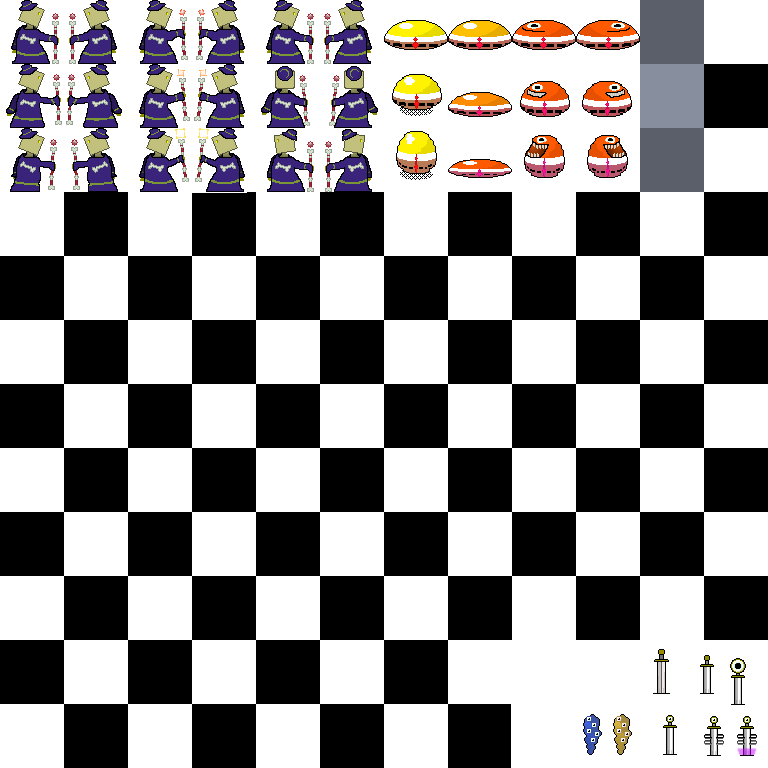
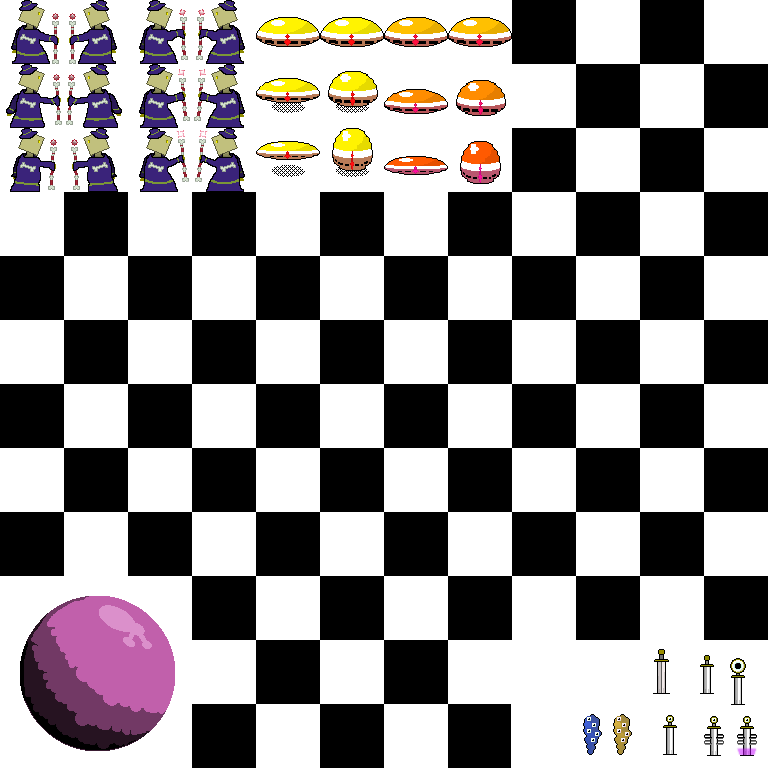
Fixes

Changed region(s): [[0.3125, 0.0, 0.9375, 0.25], [0.0, 0.75, 0.25, 1.0]]

diff --git a/SharpDungeon/Game/Graphics/Assets.cs b/SharpDungeon/Game/Graphics/Assets.cs
@@ -21,7 +21,7 @@ namespace SharpDungeon.Game.Graphics {
         //Tiles
 
         public static Bitmap air, stone, planks;
-        public static Bitmap[] stoneWall, wire, door, shadowGate, etherGate, craftingTableCore, craftingTableCell;
+        public static Bitmap[] stoneWall, wire, invertor, door, shadowGate, etherGate, craftingTableCore, craftingTableCell;
 
         //Items
 
@@ -186,6 +186,17 @@ namespace SharpDungeon.Game.Graphics {
                 wire[45] = tileSheet.crop(width * 9, height * 11, width, height);
                 wire[46] = tileSheet.crop(width * 10, height * 11, width, height);
                 wire[47] = tileSheet.crop(width * 11, height * 11, width, height);
+                
+
+                invertor = new Bitmap[8];
+                invertor[0] = tileSheet.crop(width * 4, height * 9, width, height);
+                invertor[1] = tileSheet.crop(width * 5, height * 9, width, height);
+                invertor[2] = tileSheet.crop(width * 6, height * 9, width, height);
+                invertor[3] = tileSheet.crop(width * 7, height * 9, width, height);
+                invertor[4] = tileSheet.crop(width * 8, height * 9, width, height);
+                invertor[5] = tileSheet.crop(width * 9, height * 9, width, height);
+                invertor[6] = tileSheet.crop(width * 10, height * 9, width, height);
+                invertor[7] = tileSheet.crop(width * 11, height * 9, width, height);
 
                 shadowGate = new Bitmap[19];
                 shadowGate[0] = tileSheet.crop(width * 11, height*3, width, height);
@@ -238,6 +249,7 @@ namespace SharpDungeon.Game.Graphics {
                 door[1] = tileSheet.crop(0, height * 3, width, height);
                 door[2] = tileSheet.crop(width, height * 2, width, height);
                 door[3] = tileSheet.crop(width, height * 3, width, height);
+
 
                 logo = tileSheet.crop(width*9, height*11, width*3, height);
                 

diff --git a/SharpDungeon/Game/Tiles/InvertorTile.cs b/SharpDungeon/Game/Tiles/InvertorTile.cs
@@ -1,4 +1,5 @@
-using System;
+using SharpDungeon.Game.Graphics;
+using System;
 using System.Collections.Generic;
 using System.Linq;
 using System.Text;
@@ -6,5 +7,31 @@ using System.Threading.Tasks;
 
 namespace SharpDungeon.Game.Tiles {
     public class InvertorTile : TileSmartSide {
+
+        public InvertorTile(ushort id) : base(Assets.invertor, id) {
+            currentTex  = textures[0];
+        }
+
+        public override void tick(Handler handler, int x, int y) {
+            base.tick(handler, x, y);
+
+            if(handler.world.getForeTile(x, y - 1) is WireTile &&
+               handler.world.getForeTile(x, y + 1) is WireTile) {
+
+                if (handler.world.getForeMetadata(x, y - 1) == 0) {
+                    handler.world.setForeMetadata(64, x, y + 1);
+                    currentTex = textures[0];
+                } else {
+                    handler.world.setForeMetadata(0, x, y + 1);
+                    currentTex = textures[1];
+                }
+            }
+
+        }
+
+        public override bool isSolid() {
+            return false;
+        }
+
     }
 }

diff --git a/SharpDungeon/Game/Entities/Player.cs b/SharpDungeon/Game/Entities/Player.cs
@@ -163,6 +163,11 @@ namespace SharpDungeon.Game.Entities {
                                                              handler.world.toWorldY(handler.mouseManager.mouseY));
             }
 
+            if (handler.keyManager.isDown(Keys.C)) {
+                handler.world.setForeTile(Tile.invertor.getId(), handler.world.toWorldX(handler.mouseManager.mouseX),
+                                                             handler.world.toWorldY(handler.mouseManager.mouseY));
+            }
+
             if (handler.keyManager.isPressed(Keys.R)) {
                 handler.world.setForeMetadata(64, handler.world.toWorldX(handler.mouseManager.mouseX),
                                                              handler.world.toWorldY(handler.mouseManager.mouseY));

diff --git a/SharpDungeon/Game/Tiles/Tile.cs b/SharpDungeon/Game/Tiles/Tile.cs
@@ -22,6 +22,7 @@ namespace SharpDungeon.Game.Tiles {
         public static Tile craftingTableCore = new CraftingTableCoreTile(8);
         public static Tile craftingTableCell = new CraftingTableCellTile(9);
         public static Tile wire = new WireTile(10);
+        public static Tile invertor = new InvertorTile(10);
 
         public static readonly int tileWidth = 64,
                                    tileHeight = 64;
